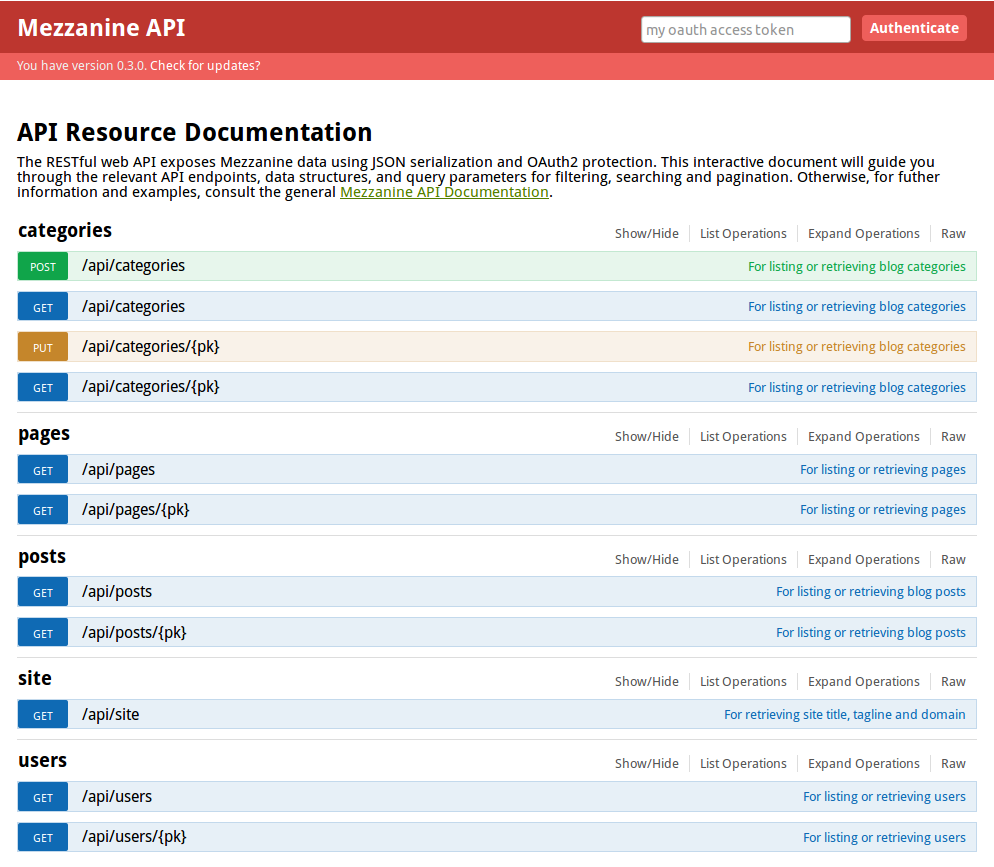
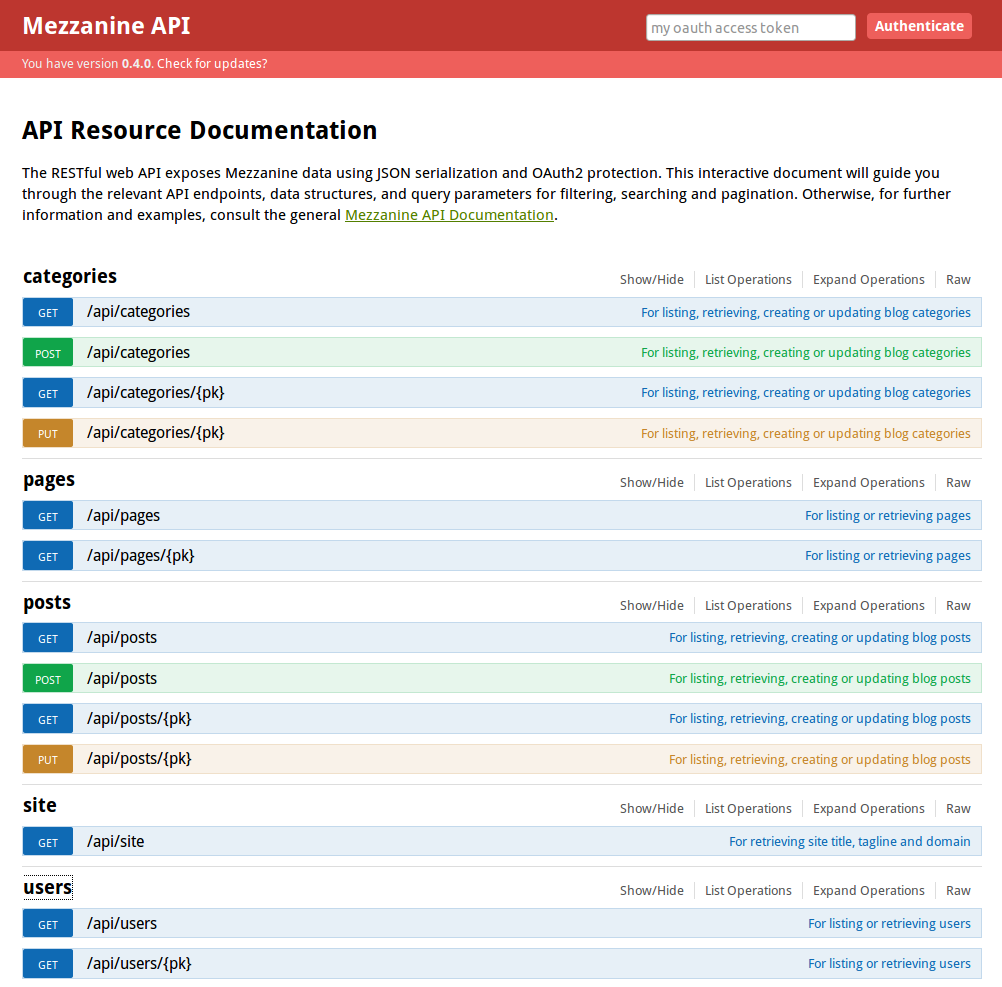
Update docs

Changed region(s): [[0.0, 0.1246, 0.998, 0.9965], [0.0, 0.0, 1.0, 0.0934]]

diff --git a/docs/index.md b/docs/index.md
@@ -8,7 +8,7 @@ RESTful API for Mezzanine CMS
 
 Mezzanine API is a **RESTful API** using **JSON** serialization and protected with **OAuth 2**. It is an extension 
 for the [Mezzanine] content management platform, built using the [Django] framework. The API empowers developers to **automate, 
-extend and combine Mezzanine with other services** such as Ember.js or a mobile app.
+extend and combine Mezzanine with other services** such as mobile apps.
 
 ---
 
@@ -55,7 +55,7 @@ In order to install Mezzanine API you'll need [Python] installed on your system,
 
         $ pip install mezzanine-api
 
-2. Add the following apps in this order to INSTALLED_APPS in your Mezzanine `settings.py`:
+2. Add the following apps in this order to *INSTALLED_APPS* in your Mezzanine `settings.py`:
 
         INSTALLED_APPS = (
             ...
@@ -75,12 +75,10 @@ In order to install Mezzanine API you'll need [Python] installed on your system,
         except ImportError as e:
             pass
 
-4. Add the following code in your Mezzanine `urls.py` somewhere after the ``urlpatterns = []`` line:
+4. For Mezzanine 4.1.0 and above, add the following code in your Mezzanine `urls.py` somewhere after ``urlpatterns += [`` (approx line 29):
 
         # REST API URLs
-        urlpatterns += patterns("",
-            ("^api/", include("mezzanine_api.urls")),
-        )
+        url("^api/", include("mezzanine_api.urls")),
 
 5. Migrate the database to support OAuth2:
 
@@ -124,15 +122,23 @@ provide a structure that allows for pagination. Please use a "page" parameter to
     } 
 
 ## Permissions
-Currently, the API is readonly with the exception of the `categories` resource. Categories may be created or updated 
-over the API by a *superuser*. The rest of the API will also gradually be opened up for write access over forthcoming 
-releases. This would allow you to make new blog posts, for example, using your own innovative frontend or web hooks.
+Blog posts and categories may be created or updated over the API by a *superuser*. This enables you to make new blog posts, for 
+example, using your own innovative frontend or web hooks. Note that this writable access is currently an experimental 
+feature and should be used with caution. There are plans to gradually open up the rest of the API for write access over forthcoming releases. 
 
 Note that the `users` resource is provided so that you can carry out tasks such as retrieving the current user's 
 details, view a blog post author's name, and list suggested usernames for predicted text entry. For privacy, the email 
 field can only be accessed by the relevant owner or a *superuser*. However, the author's full name is accessible to all
 by default (if provided) since blogs tend to operate on a real name basis. If you wish to customize this, take a look 
 at the `UserSerializer` class.
+
+## Secure communication
+**You SHOULD use HTTPS in production!**
+
+In this guide, we consider a development environment on a local machine and connect to the server over HTTP. Whereas for production, you SHOULD use HTTPS for secure communication over the internet. Without it, all the API and Mezzanine authentication mechanisms can be compromised.
+
+## Authenticate with sessions
+Session authentication is enabled by default. It can be disabled by commenting out the relevant line in `settings.py`. If you wish to use session based authentication for write access as well as read access, you will need to setup a valid CSRF token for any PUT or POST requests. See the [Django CSRF documentation](https://docs.djangoproject.com/en/dev/ref/csrf/#ajax) for more details.
 
 ## Authenticate with OAuth2
 
@@ -181,7 +187,7 @@ You can also test your access token by entering it at the top of your interactiv
 [API Resource Documentation](http://127.0.0.1:8000/api/docs/) page.
 
 ## Getting help
-If you have questions about the API, consider using the [Mezzanine discussion group].
+If you have questions about the API, consider leaving a message in our [Gitter chat room] or using the general [Mezzanine discussion group].
 
 Otherwise, if you think you have found a bug, please use [GitHub issues] and include the steps necessary to reproduce
  it.
@@ -192,17 +198,17 @@ on [GitHub], so contributing is as easy as forking the project and committing ba
 
 ## Roadmap
 * Refinement
-* Example API client
 * Gradual roll-out of writeable API access
-* Test Suite
+* More tests
 * Further documentation
- 
+* Example API client 
 
 [Python]: https://www.python.org/
 [Mezzanine]: http://mezzanine.jupo.org/
 [Django]: http://djangoproject.com/
 [GitHub issues]: https://github.com/gcushen/mezzanine-api/issues
 [Swagger UI]: http://swagger.io/
+[Gitter chat room]: https://gitter.im/gcushen/mezzanine-api
 [Mezzanine discussion group]: http://groups.google.com/group/mezzanine-users/topics
 [Django Rest Framework]: http://www.django-rest-framework.org/
 [PyPi]: https://pypi.python.org/pypi/mezzanine-api
